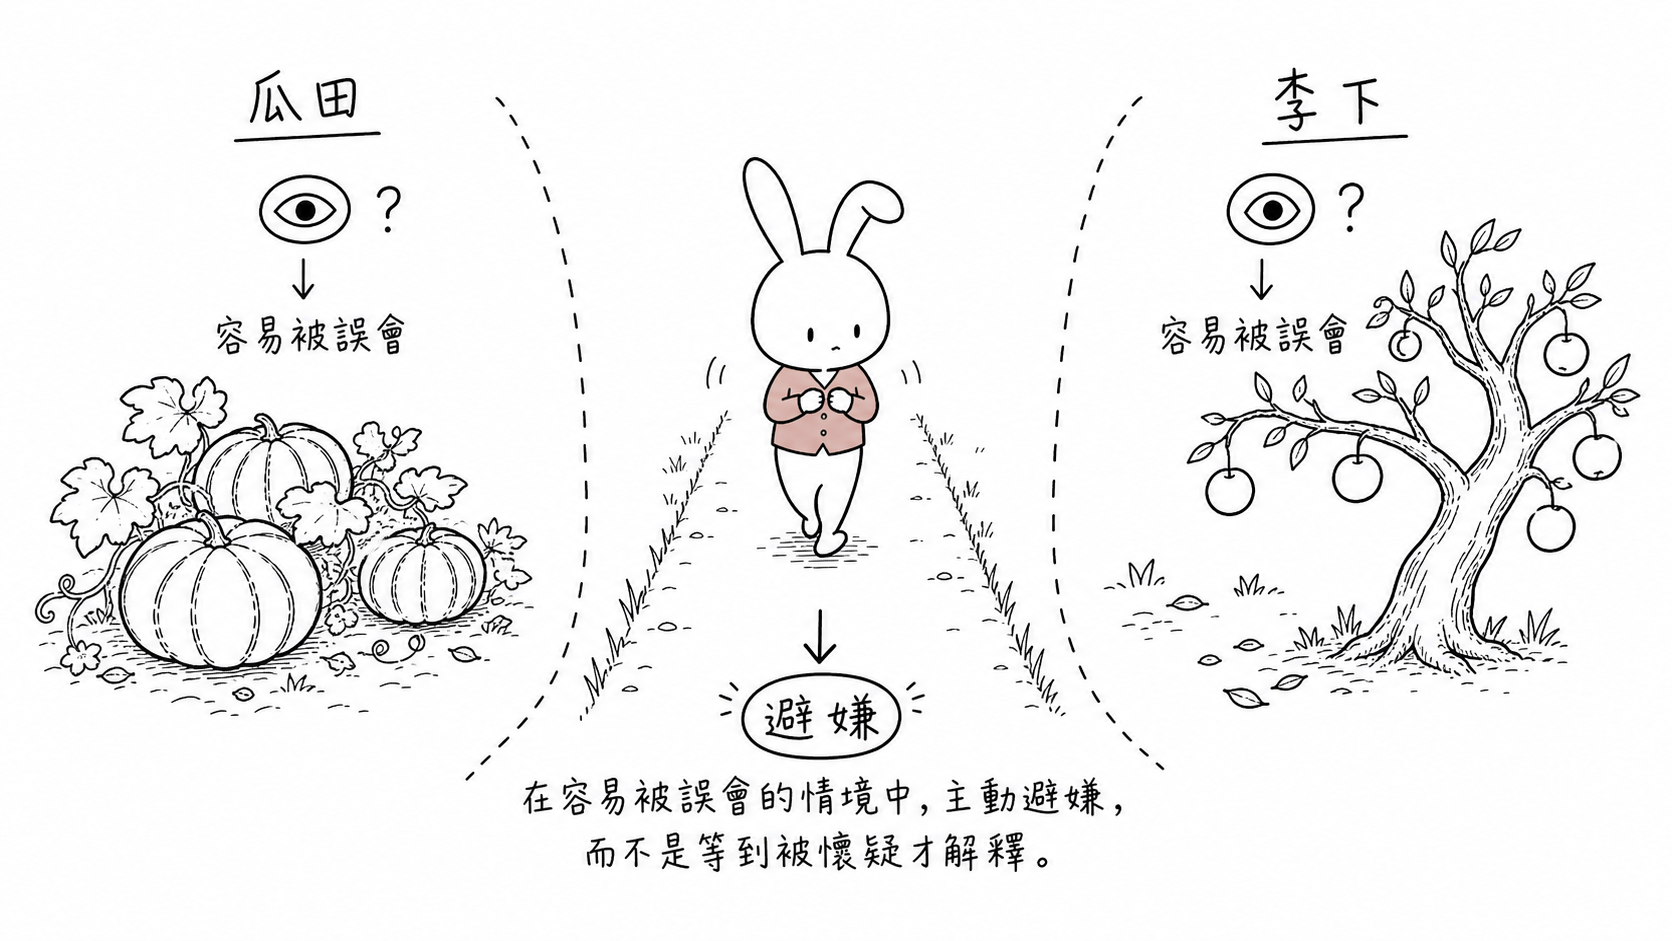
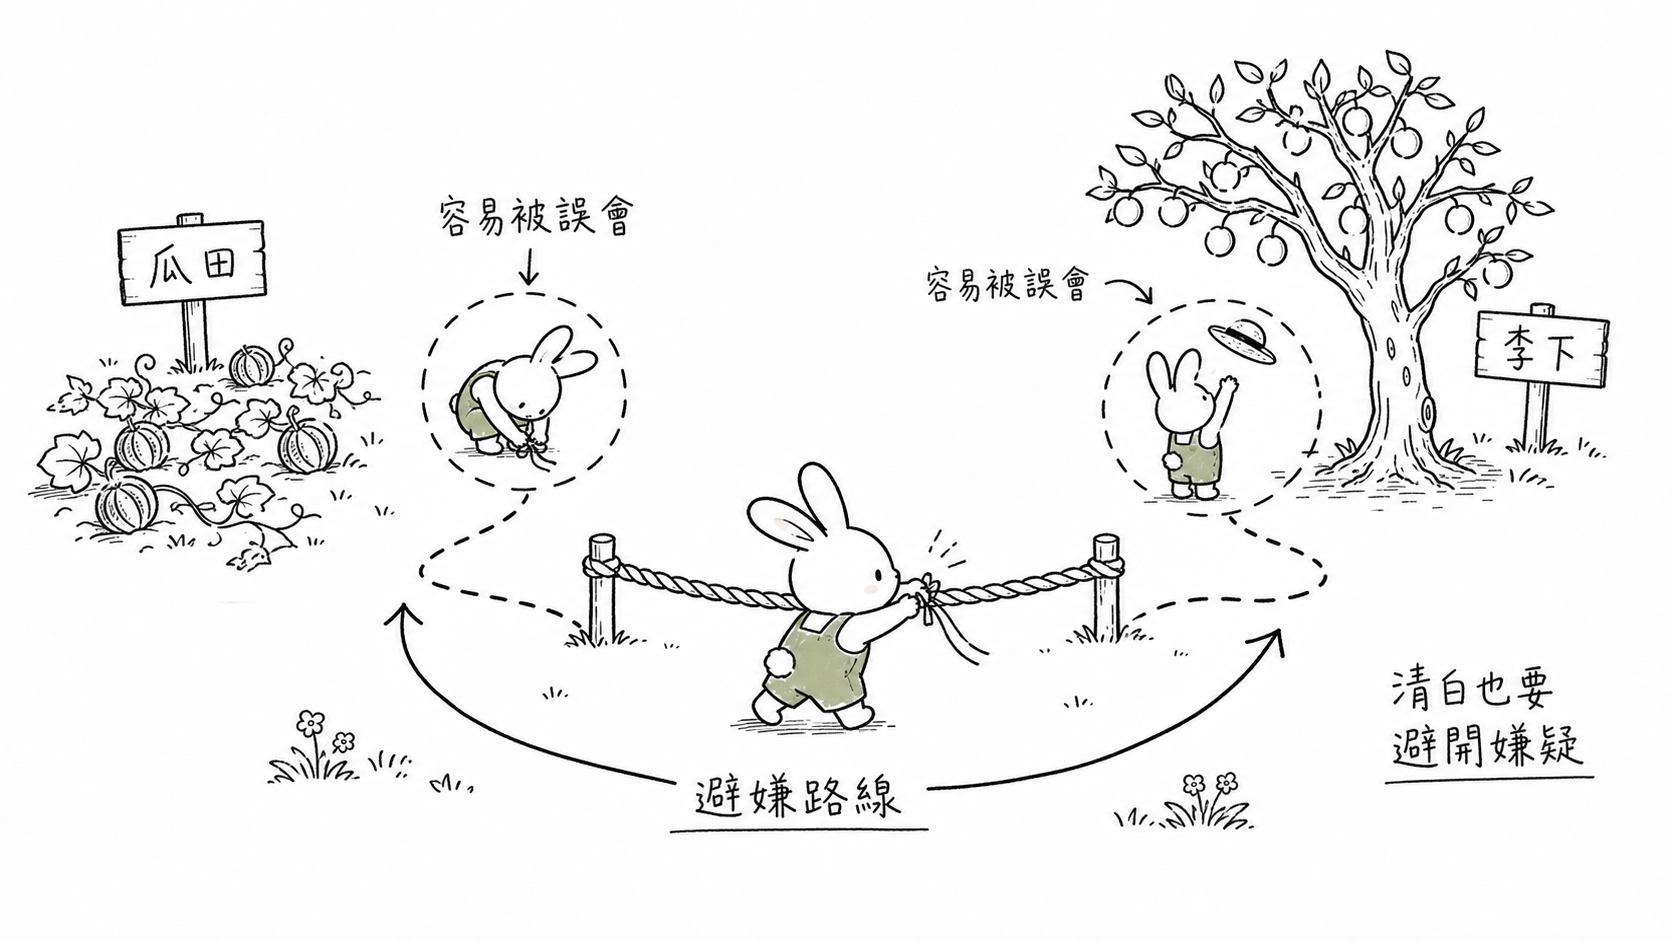
Update rabbit proportions in examples

diff --git a/README.md b/README.md
@@ -61,6 +61,13 @@ Antigravity：
 ![](./assets/ig_078292d6be61dc78016a1d0426ef488191941ef7394830de4b.png)
 
 ---
+```text
+/figure PDCA 循環
+```
+
+![](./assets/pdca.png)
+
+---
 
 或者是輸入一個段落：
 